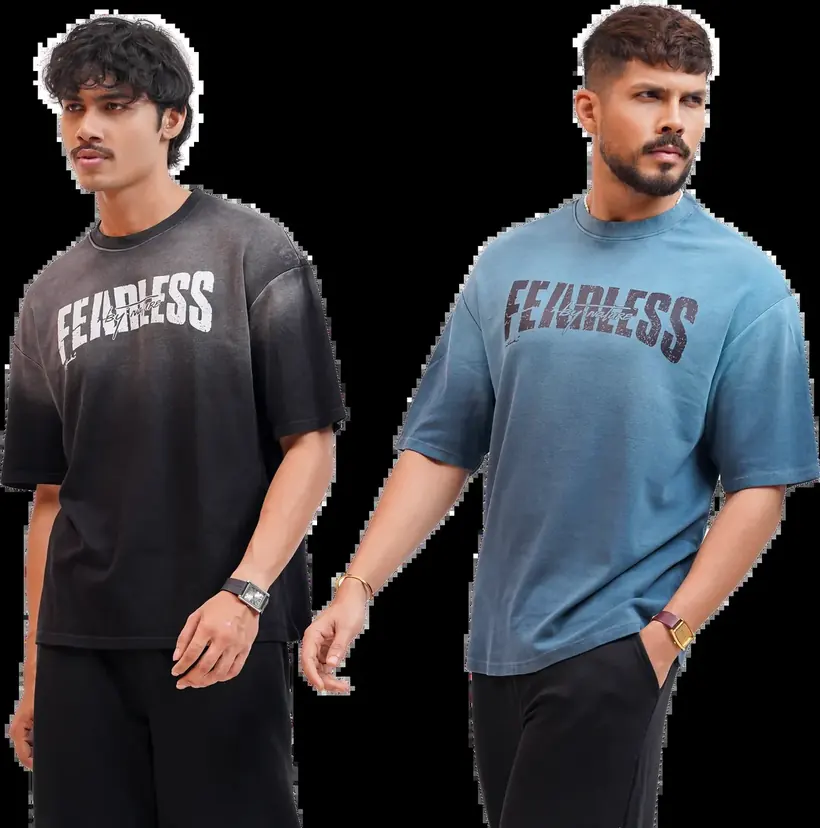
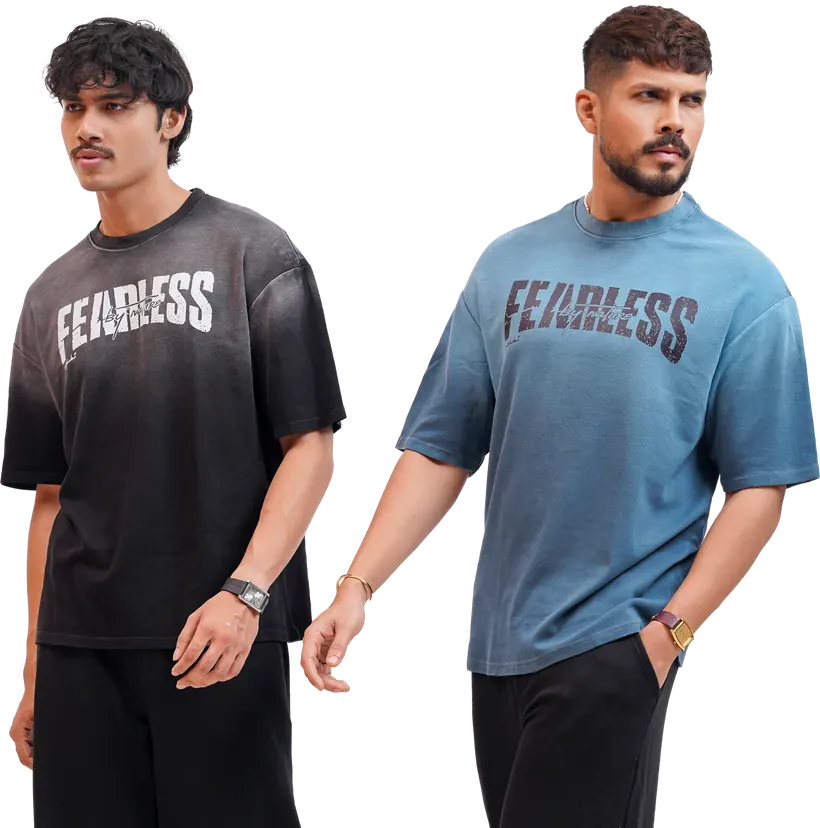
Keep the hero photo's transparent background
The resized hero image was saved without its alpha channel, which
painted a white box over the grey hero gradient. Rebuild both sizes
from the original with transparency kept.

Claude-Session: https://claude.ai/code/session_016Ko5femFVu4VmnswLyGzuG

diff --git a/index.html b/index.html
@@ -11,7 +11,7 @@
 <link rel="preconnect" href="https://fonts.gstatic.com" crossorigin>
 <link rel="stylesheet" href="https://fonts.googleapis.com/css2?family=Archivo:wdth,wght@62..125,200..800&family=IBM+Plex+Mono:wght@400;500&display=swap">
 <link rel="preload" as="image" href="assets/img/home/h-hero-fearless.webp" imagesrcset="assets/img/home/h-hero-fearless-m.webp 820w, assets/img/home/h-hero-fearless.webp 1200w" imagesizes="(max-width: 700px) 60vw, 960px" fetchpriority="high">
-<link rel="stylesheet" href="assets/css/style.css?v=1129">
+<link rel="stylesheet" href="assets/css/style.css?v=1130">
 <script>try{if(!matchMedia("(prefers-reduced-motion: reduce)").matches&&!/[?&](preview|edit)\b/.test(location.search))document.documentElement.classList.add("js-intro")}catch(e){}</script>
 </head>
 <body>
@@ -275,7 +275,7 @@
 
 <div class="toast" id="toast" role="status" aria-live="polite"></div>
 
-<script src="assets/js/client.js?v=1129"></script>
-<script src="assets/js/store.js?v=1129"></script>
+<script src="assets/js/client.js?v=1130"></script>
+<script src="assets/js/store.js?v=1130"></script>
 </body>
 </html>
